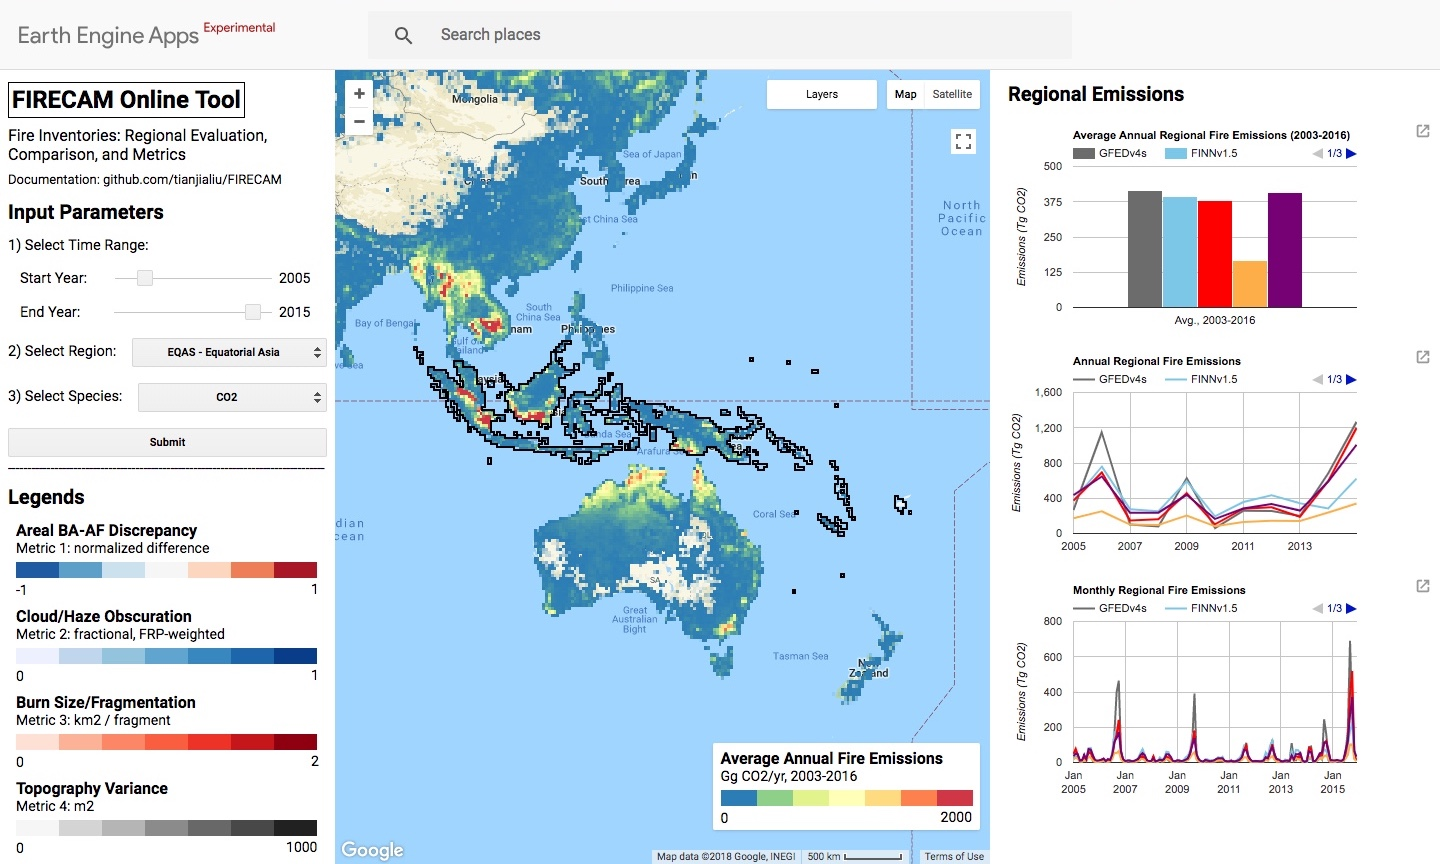
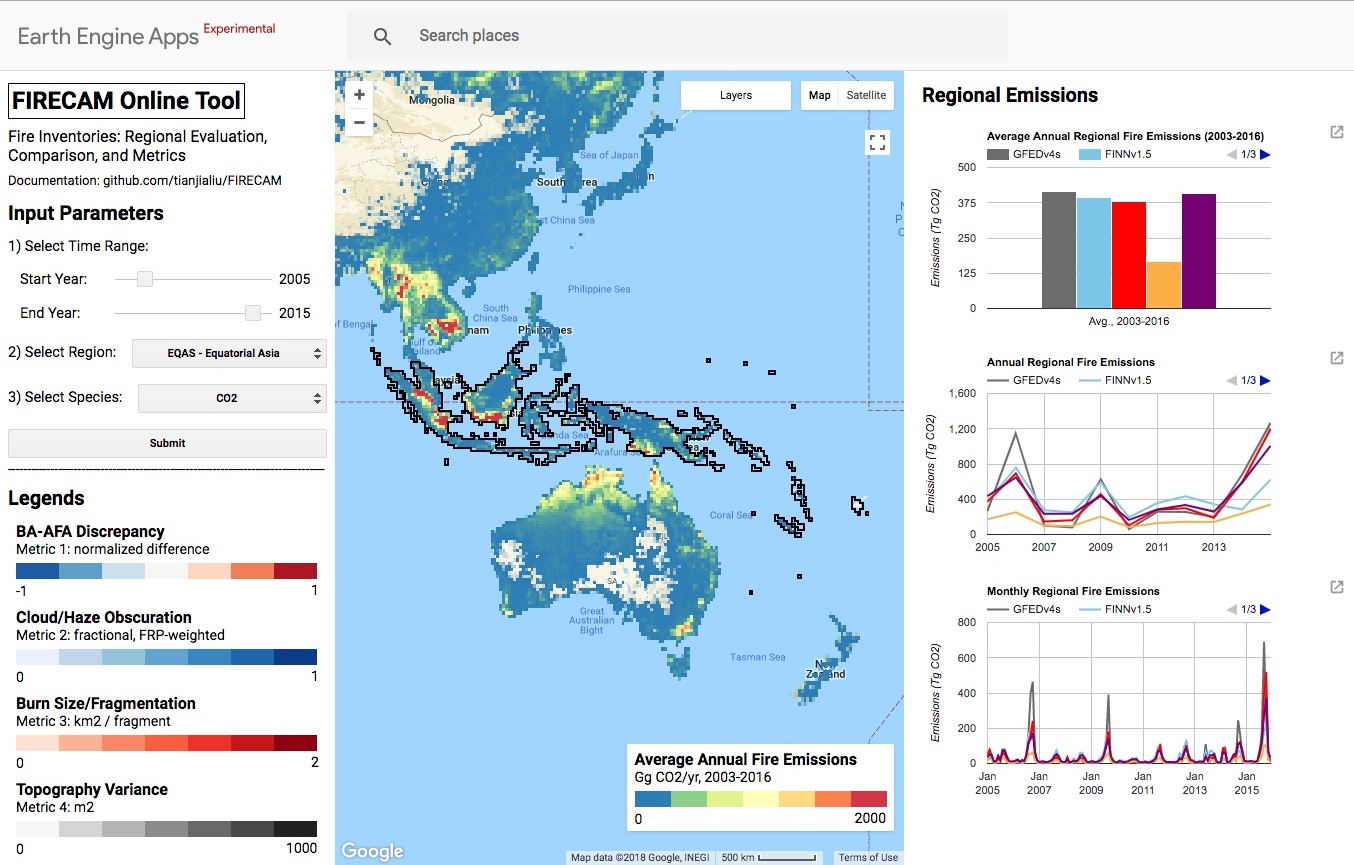
add description of fire metrics, rename metric 1

diff --git a/gee/Modules/emissions.js b/gee/Modules/emissions.js
@@ -1,5 +1,5 @@
 /**** Start of imports. If edited, may not auto-convert in the playground. ****/
-var metric1 = ee.Image("projects/GlobalFires/RelFireConfidence/RFCM1_areal_BA_AF_discrepancy"),
+var metric1 = ee.Image("users/tl2581/RelFireConfidence/RFCM1_BA_AFA_discrepancy"),
     metric2 = ee.Image("projects/GlobalFires/RelFireConfidence/RFCM2_cloud_haze_burden"),
     metric3 = ee.Image("projects/GlobalFires/RelFireConfidence/RFCM3_fireBAComponentSize"),
     metric4 = ee.Image("projects/GlobalFires/RelFireConfidence/RFCM4_topo_variance"),
@@ -12,11 +12,10 @@ var metric1 = ee.Image("projects/GlobalFires/RelFireConfidence/RFCM1_areal_BA_AF
     gfedv4_ancill = ee.Image("projects/GlobalFires/GFEDv4ancill"),
     basisRegions = ee.FeatureCollection("projects/GlobalFires/basisRegions_0p5deg");
 /***** End of imports. If edited, may not auto-convert in the playground. *****/
-
 // ----------------------------------
 // Relative Fire Confidence Metrics
 // ----------------------------------
-// Metric 1: areal BA-AF discrepancy
+// Metric 1: BA-AFA discrepancy
 exports.RFCM1 = metric1;
 // Metric 2: FRP-weighted cloud/haze burden on satellite observing conditions
 exports.RFCM2 = metric2;

diff --git a/ee_apps/UI_FIRECAM.js b/ee_apps/UI_FIRECAM.js
@@ -52,7 +52,7 @@ var basisRegions = ee.FeatureCollection(projFolder + 'basisRegions_0p5deg');
 // Relative Fire Confidence Metrics
 // ----------------------------------
 // Metric 1: areal BA-AF discrepancy
-var RFCM1 = ee.Image([projFolder + 'RelFireConfidence/RFCM1_areal_BA_AF_discrepancy']);
+var RFCM1 = ee.Image([projFolder + 'RelFireConfidence/RFCM1_BA_AFA_discrepancy']);
 // Metric 2: FRP-weighted cloud/haze burden on satellite observing conditions
 var RFCM2 = ee.Image([projFolder + 'RelFireConfidence/RFCM2_cloud_haze_burden']);
 // Metric 3: burn size and fragmentation
@@ -398,7 +398,7 @@ var legendPanel = function(controlPanel) {
 
   controlPanel.add(ui.Label('', {margin: '0px 0px 4px 0px'}));
   
-  continuousLegend(controlPanel,'Areal BA-AF Discrepancy',
+  continuousLegend(controlPanel,'BA-AFA Discrepancy',
     colPal_RdBu, -1, 1, 'Metric 1: normalized difference', 303);
   continuousLegend(controlPanel,'Cloud/Haze Obscuration',
     colPal_Blues, 0, 1, 'Metric 2: fractional, FRP-weighted', 303);

diff --git a/gee/UI_FIRECAM.js b/gee/UI_FIRECAM.js
@@ -117,7 +117,7 @@ submitButton.onClick(function() {
   map.addLayer(lulcMapYr, {palette: plotParams.lulc_colPal, min: 1, max: 7}, 'Land Use/ Land Cover ' + mapYr.getInfo(), false);
   map.addLayer(lulc.peat.gt(0).selfMask(), {palette: ['#800080']}, 'Peatlands', false);
   
-  map.addLayer(FIRECAM.RFCM1.multiply(1e3), {palette: plotParams.colPal_RdBu, min: -1e3, max: 1e3}, 'Metric 1: Areal BA-AF Discrepancy', false);
+  map.addLayer(FIRECAM.RFCM1.multiply(1e3), {palette: plotParams.colPal_RdBu, min: -1e3, max: 1e3}, 'Metric 1: BA-AFA Discrepancy', false);
   map.addLayer(FIRECAM.RFCM2.multiply(1e3), {palette: plotParams.colPal_Blues, min: 0, max: 1e3}, 'Metric 2: Cloud/Haze Obscuration', false);
   map.addLayer(FIRECAM.RFCM3.multiply(1e3), {palette: plotParams.colPal_Reds, min: 0, max: 2e3}, 'Metric 3: Burn Size/Fragmentation', false);
   map.addLayer(FIRECAM.RFCM4, {palette: plotParams.colPal_Grays, min: 0, max: 1e3}, 'Metric 4: Topography Variance', false);

diff --git a/gee/Modules/plotParams.js b/gee/Modules/plotParams.js
@@ -139,7 +139,7 @@ exports.legendPanel = function(controlPanel) {
 
   controlPanel.add(ui.Label('', {margin: '0px 0px 4px 0px'}));
   
-  continuousLegend(controlPanel,'Areal BA-AF Discrepancy',
+  continuousLegend(controlPanel,'BA-AFA Discrepancy',
     colPal_RdBu, -1, 1, 'Metric 1: normalized difference', 303);
   continuousLegend(controlPanel,'Cloud/Haze Obscuration',
     colPal_Blues, 0, 1, 'Metric 2: fractional, FRP-weighted', 303);

diff --git a/README.md b/README.md
@@ -27,7 +27,17 @@ FIRECAM can be accessed through 1) Earth Engine Apps and 2) Google Earth Engine 
 *Select a species.* The six available species are CO<sub>2</sub>, CO, CH<sub>4</sub>, organic carbon (OC), black carbon (BC), and fine particulate matter (PM<sub>2.5</sub>)
 
 ### Regional Emissions
-After clicking the submit button, please wait a few seconds for the default map layers and three charts to display. Note that for large regions, such as BOAS, and long time ranges, calculations for the monthly and annual time series can take up to a few minutes. The three charts (annual average from 2003-2016 and two time series charts, yearly and monthly emissions by inventory), can be viewed in a new tab and exported as tables or images. Map layers consist of emissions at 0.5° x 0.5° spatial resolution for a given species for each of the five global fire emissions inventories and fire relative fire confidence metrics at 0.25° x 0.25° spatial resolution. The distribution of peatlands (0.25° x 0.25°), based on GFEDv4s emissions from 2003-2016, and MODIS land use/land cover map (500 m, MCD12Q1 C6), based on FINNv1.0 aggregated vegetation classes, are also available as map layers.
+After clicking the submit button, please wait a few seconds for the default map layers and three charts to display. Note that for large regions, such as BOAS, and long time ranges, calculations for the monthly and annual time series can take up to a few minutes. The three charts (annual average from 2003-2016 and two time series charts, yearly and monthly emissions by inventory), can be viewed in a new tab and exported as tables or images. Map layers consist of emissions at 0.5° x 0.5° spatial resolution for a given species for each of the five global fire emissions inventories and fire relative fire confidence metrics (described below) at 0.25° x 0.25° spatial resolution. The distribution of peatlands (0.25° x 0.25°), based on GFEDv4s emissions from 2003-2016, and MODIS land use/land cover map (500 m, MCD12Q1 C6), based on FINNv1.0 aggregated vegetation classes, are also available as map layers.
+
+### Relative Fire Confidence Metrics
+| # | Metric | Range | Units | Description |
+| :---: | :--- | :--- | :--- | :--- |
+| 1 | BA-AFA Discrepancy | -1 to 1 | unitless | discrepancy between burned area (BA; MCD64A1) and active fire area (AFA; MxD14A1), calculated as a normalized index using the area of BA outside AFA and AFA outside BA |
+| 2 | Cloud-Haze Obscuration | 0 to 1 | unitless | degree to which clouds and/or haze obscure the land surface from satellite observations of fires during fire-prone months |
+| 3 | Burn Size/ Fragmentation | ≥ 0 | km<sup>2</sup> / fragment | average size of burned area per burn scar fragment (large, continuguous versus small, fragmented fire landscapes) |
+| 4 | Topography Variance | ≥ 0 | m<sup>2</sup> | roughness in terrain, expressed as the variance in elevation across neighboring pixels (flat versus mountainous) |
+| 5 | VIIRS FRP Outside MODIS Burn Extent | 0 to 1 | unitless | additional small fires from VIIRS (375 m), a sensor with higher spatial resolution than MODIS (500 m, 1 km) |
+
 <br><br>
 
 ## Google Earth Engine Code Editor GUI
